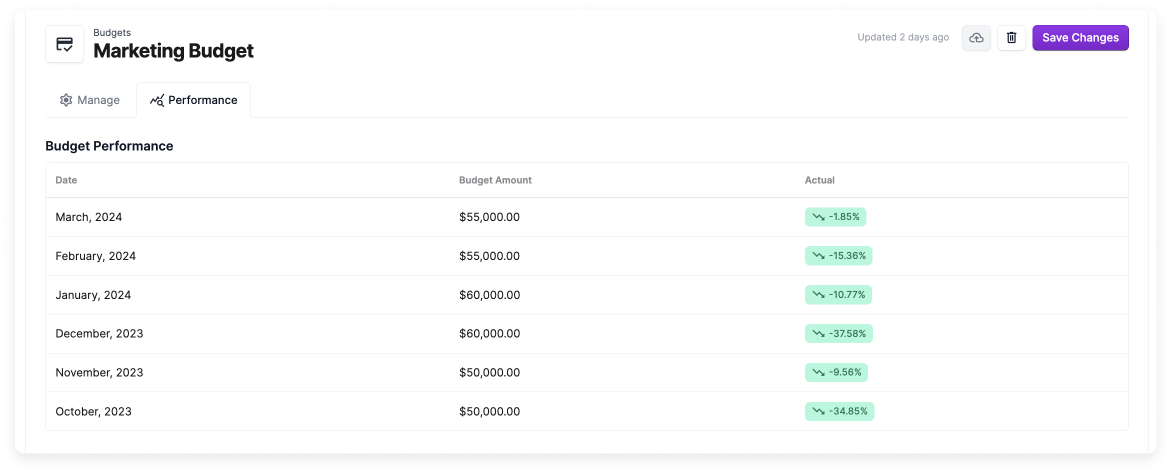
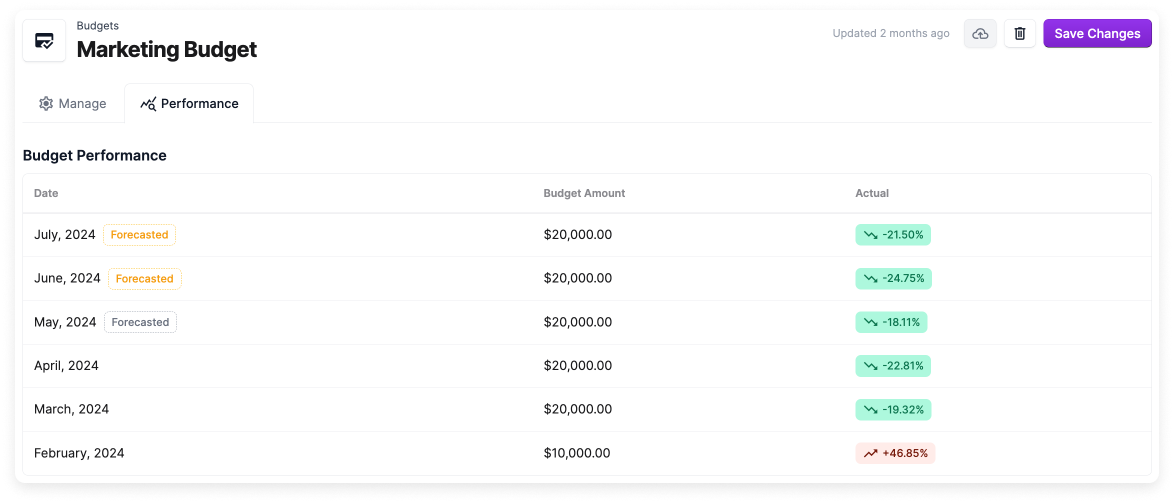
budgets

diff --git a/docs/budgets.md b/docs/budgets.md
@@ -40,11 +40,11 @@ The below instructions describe how to manually create a budget. You can also up
            <img alt="The Budget creation screen with three different periods added to the budget." width="100%" src="/img/create-budget.png" />
        </div>
      </details>
-7. At the top right, click **Save**.
-8. Select the **Performance** tab to see each budget period with a month-to-date performance of how the budget performed.
+7. At the top right, click **Save Changes**.
+8. Select the **Performance** tab to see each budget period with a month-to-date performance of how the budget performed or is forecasted to perform.
 <details><summary>Click to view example image</summary>
     <div style={{display:"flex", justifyContent:"center"}}>
-        <img alt="Performance of a budget across six periods with actual performance displayed for each month." width="100%" src="/img/budget-performance.png" />
+        <img alt="Performance of a budget across six periods with actual and forecasted performance displayed for each month." width="100%" src="/img/budget-performance.png" />
     </div>
 </details>
 
@@ -161,12 +161,13 @@ Once a budget is assigned to a [Cost Report](/cost_reports/), a budget report wi
     <img alt="A budget is displayed as a trend line on the Cost Report in the console" width="100%" src="/img/cost-report-budget.png" />
 </div>
 
-Budgets are displayed as a yellow line on the graph in the cumulative, daily, weekly, and monthly views on a Cost Report.
+Budgets are displayed as a yellow line on the graph in the cumulative, daily, weekly, and monthly views on a Cost Report. The dotted portion of the line corresponds to the forecasted future budget, generated using a time-series model, which you can track against your forecasted costs.
 
 :::note
-The following notes apply to budgets on Cost Reports:
-- If you select any **Group By** criteria on a Cost Report, the budget is no longer displayed.
-- If you select the **Weekly** view, you may see the budget line dip for the first and last week of the month. This is because budgets are metered per day.
+The following note applies to budgets on Cost Reports:
+
+- If you select the **Weekly** view, you may see the budget line dip for the first and last week of the month. This is because budgets are metered per day
+
 :::
 
 ## Create Budget Alerts {#create-alerts}
@@ -211,4 +212,4 @@ Because a budget is defined for a month, you can only be alerted based on the bu
 
 ### Budget Alerts and Cost Reports
 
-If you update a Cost Report that is associated with a budget alert, the following message is displayed: _This report has budget alerts and may trigger a notification. Are you sure you want to save the report?_ You must confirm before saving the report. 
+If you update a Cost Report that is associated with a budget alert, the following message is displayed: _This report has budget alerts and may trigger a notification. Are you sure you want to save the report?_ You must confirm before saving the report.
